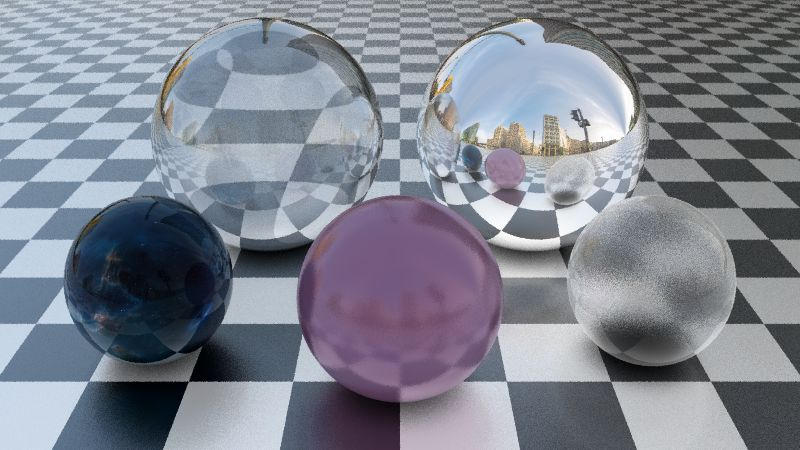
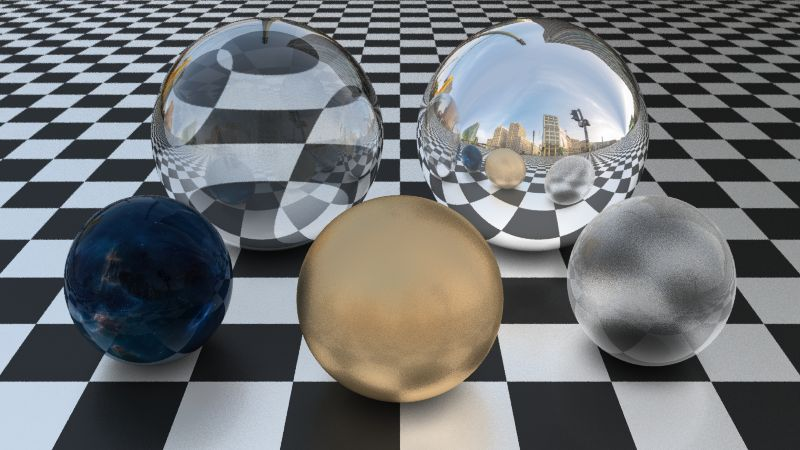
Added tint colors for reflection/refraction

diff --git a/src/raytracing.rs b/src/raytracing.rs
@@ -275,19 +275,25 @@ fn hit_object<R: Rng + ?Sized>(params: &RaytraceParameters, rng: &mut R, hit_inf
     }
 
     // Add reflective influence to output if the influence threshold is met
-    if total_reflection_intensity > params.render_params.quality.min_intensity {     
-        reflect(params, rng, hit_info, total_reflection_intensity, &mut output)
+    if total_reflection_intensity > params.render_params.quality.min_intensity {
+
+        let tint = hit_info.mat.reflection.color.unwrap_or(hit_info.mat.color);
+
+        output += tint * reflect(params, rng, hit_info, total_reflection_intensity);
     }
 
     // Add refractive influence to output if the influence threshold is met
     if total_refraction_intensity > params.render_params.quality.min_intensity {
-        refract(params, rng, hit_info, total_refraction_intensity, &mut output)
+
+        let tint = hit_info.mat.refraction.color.unwrap_or(hit_info.mat.color);
+
+        output += tint * refract(params, rng, hit_info, total_refraction_intensity)
     }
 
     output
 }
 
-fn reflect<R: Rng + ?Sized>(params: &RaytraceParameters, rng: &mut R, hit_info: &HitInfo, total_intensity: f64, output: &mut RGBColor) {
+fn reflect<R: Rng + ?Sized>(params: &RaytraceParameters, rng: &mut R, hit_info: &HitInfo, total_intensity: f64) -> RGBColor {
 
     // Origin of all reflected rays including bias
     let origin = hit_info.hit.position + hit_info.hit.normal * params.render_params.quality.bias;
@@ -300,8 +306,7 @@ fn reflect<R: Rng + ?Sized>(params: &RaytraceParameters, rng: &mut R, hit_info: 
 
         let ray = Ray { origin, direction };
 
-        *output += raytrace_recursive(params, rng, ray, hit_info.bounces + 1, total_intensity);
-
+        raytrace_recursive(params, rng, ray, hit_info.bounces + 1, total_intensity)
     } else {
 
         let ray_count = get_ray_count_for_intensity(total_intensity, params.render_params.max_samples.reflection);
@@ -310,6 +315,8 @@ fn reflect<R: Rng + ?Sized>(params: &RaytraceParameters, rng: &mut R, hit_info: 
 
         let ray_intensity = total_intensity / ray_directions.len() as f64;
 
+        let mut output = RGBColor::BLACK;
+
         for dir in ray_directions {
 
             let ray = Ray {
@@ -317,13 +324,14 @@ fn reflect<R: Rng + ?Sized>(params: &RaytraceParameters, rng: &mut R, hit_info: 
                 direction: dir
             };
 
-            *output += raytrace_recursive(params, rng, ray, hit_info.bounces + 1, ray_intensity);
+            output += raytrace_recursive(params, rng, ray, hit_info.bounces + 1, ray_intensity);
         }
 
+        output
     }
 }
 
-fn refract<R: Rng + ?Sized>(params: &RaytraceParameters, rng: &mut R, hit_info: &HitInfo, total_intensity: f64, output: &mut RGBColor) {
+fn refract<R: Rng + ?Sized>(params: &RaytraceParameters, rng: &mut R, hit_info: &HitInfo, total_intensity: f64) -> RGBColor {
     
     // This closure is magic and was stolen from:
     // https://www.scratchapixel.com/lessons/3d-basic-rendering/introduction-to-shading/reflection-refraction-fresnel
@@ -361,8 +369,7 @@ fn refract<R: Rng + ?Sized>(params: &RaytraceParameters, rng: &mut R, hit_info: 
     if hit_info.mat.refraction.max_angle == 0.0 {
 
          // Special case for perfect refraction: We only need to send out a single ray
-
-        *output += raytrace_recursive(params, rng, refr_ray, hit_info.bounces + 1, total_intensity);
+        raytrace_recursive(params, rng, refr_ray, hit_info.bounces + 1, total_intensity)
 
     } else {
 
@@ -378,6 +385,8 @@ fn refract<R: Rng + ?Sized>(params: &RaytraceParameters, rng: &mut R, hit_info: 
 
         let ray_intensity = total_intensity / directions.len() as f64;
 
+        let mut output = RGBColor::BLACK;
+
         for dir in directions {
 
             let ray = Ray {
@@ -385,9 +394,10 @@ fn refract<R: Rng + ?Sized>(params: &RaytraceParameters, rng: &mut R, hit_info: 
                 direction: dir
             };
 
-            *output += raytrace_recursive(params, rng, ray, hit_info.bounces + 1, ray_intensity);
+            output += raytrace_recursive(params, rng, ray, hit_info.bounces + 1, ray_intensity);
         }
 
+        output
     }
 }
 

diff --git a/src/material.rs b/src/material.rs
@@ -28,7 +28,8 @@ pub struct Reflection {
     pub center: f64,
     pub edges: f64,
     pub power: f64,
-    pub max_angle: f64
+    pub max_angle: f64,
+    pub color: Option<RGBColor>
 }
 
 #[derive(Debug, Copy, Clone, Deserialize)]
@@ -36,6 +37,7 @@ pub struct Reflection {
 pub struct Refraction {
     pub ior: f64,
     pub max_angle: f64,
+    pub color: Option<RGBColor>
 }
 
 impl Material {
@@ -112,8 +114,8 @@ impl Default for Opacity {
 
 impl Reflection {
 
-    pub fn new(center: f64, edges: f64, power: f64, max_angle: f64) -> Reflection {
-        Reflection { center, edges, power, max_angle }
+    pub fn new(center: f64, edges: f64, power: f64, max_angle: f64, color: Option<RGBColor>) -> Reflection {
+        Reflection { center, edges, power, max_angle, color }
     }
 }
 
@@ -124,15 +126,16 @@ impl Default for Reflection {
             center: 0.0,
             edges: 0.0,
             power: 1.0,
-            max_angle: 0.0
+            max_angle: 0.0,
+            color: None
         }
     }
 }
 
 impl Refraction {
 
-    pub fn new(ior: f64, max_angle: f64) -> Refraction {
-        Refraction { ior, max_angle }
+    pub fn new(ior: f64, max_angle: f64, color: Option<RGBColor>) -> Refraction {
+        Refraction { ior, max_angle, color }
     }
 }
 
@@ -141,7 +144,8 @@ impl Default for Refraction {
     fn default() -> Self {
         Refraction {
             ior: 1.33,
-            max_angle: 0.0
+            max_angle: 0.0,
+            color: None
         }
     }
 }

diff --git a/src/color.rs b/src/color.rs
@@ -37,6 +37,10 @@ impl RGBColor {
         
         true
     }
+
+    pub fn lerp_towards(self, other: Self, t: f64) -> Self {
+        self * (1.0 - t) + other * t
+    }
 }
 
 impl From<RGBColor> for [u8;3] {
@@ -107,21 +111,17 @@ impl std::ops::AddAssign for RGBColor {
 
 }
 
-// impl From<RGBAColor> for RGBColor {
+impl std::ops::Mul for RGBColor {
+    type Output = Self;
 
-//     fn from(col: RGBAColor) -> RGBColor {
-//         RGBColor { r: col.r, g: col.g, b: col.b }
-//     }
-
-// }
-
-// impl From<RGBColor> for RGBAColor {
-
-//     fn from(col: RGBColor) -> RGBAColor {
-//         RGBAColor { r: col.r, g: col.g, b: col.b, a: 1.0 }
-//     }
-
-// }
+    fn mul(self, rhs: Self) -> Self {
+        RGBColor {
+            r: self.r * rhs.r,
+            g: self.g * rhs.g,
+            b: self.b * rhs.b
+        }
+    }
+}
 
 // Deserialization
 use serde::{Deserialize, Deserializer};

diff --git a/readme.md b/readme.md
@@ -4,6 +4,20 @@ A raytracer written in rust with a focus on simplicity over features or performa
 
 That said, it can make pretty neat pictures.
 
+## Examples
+
+![](example2.jpg)
+
+![](example1.jpg)
+
+## Using rays
+
+```sh
+rays [-c "camera-name"] [-p "render-params-name"] [-q/Q quality] [-w 1280] [-h 720] scene.toml ["output.png"]
+```
+
+rays has pretty good command-line help (`rays --help`) that explains all possible parameters. Try it out!
+
 ## Configuration Format
 
 Each scene is described by a configuration file `scene-name.toml`, using the TOML format (https://github.com/toml-lang/toml). Configuration files are validated before rendering, so don't be afraid to experiment.
@@ -19,11 +33,11 @@ Usually, you want to start out by defining some materials. A material is specifi
 name = "pure-white"
 color = [1.0, 1.0, 1.0]
 opacity = { center = 1.0, edges = 1.0, power = 1.0 }
-reflection = { center = 0.0, edges = 0.0, power = 1.0, max_angle = 0.0 }
-refraction = { ior = 1.33, max_angle = 0.0 }
+reflection = { center = 0.0, edges = 0.0, power = 1.0, max_angle = 0.0, color = *same as mat color* }
+refraction = { ior = 1.33, max_angle = 0.0, color = *same as mat color* }
 ```
 
-The only mandatory key is `name`. Omitted keys take their default values, which can be seen above. The default material is pure white without any reflections or transparency / refraction. Note that if you chose to specify the opacity, reflection and/or refraction keys, you need to specify them completely (all sub-keys). Partial definitions will be rejected.
+The only mandatory key is `name`. Omitted keys take their default values, which can be seen above. The default material is pure white without any reflections or transparency / refraction.
 
 ### UV Mappers (optional)
 
@@ -125,19 +139,3 @@ ao.samples = 3
 ```
 
 Similarly to cameras, you only need to specify a `name` key if you have multiple `render-params` structs. Every key is optional and has a default value. It's also possible to omit this struct completely.
-
-## Using rays
-
-```sh
-rays [-c "camera-name"] [-p "render-params-name"] [-q/Q quality] [-w 1280] [-h 720] scene.toml ["output.png"]
-```
-
-rays has pretty good command-line help (`rays --help`) that explains all possible parameters. Try it out!
-
-## Examples
-
-![](example1.jpg)
-
-![](example2.jpg)
-
-![](example3.jpg)
